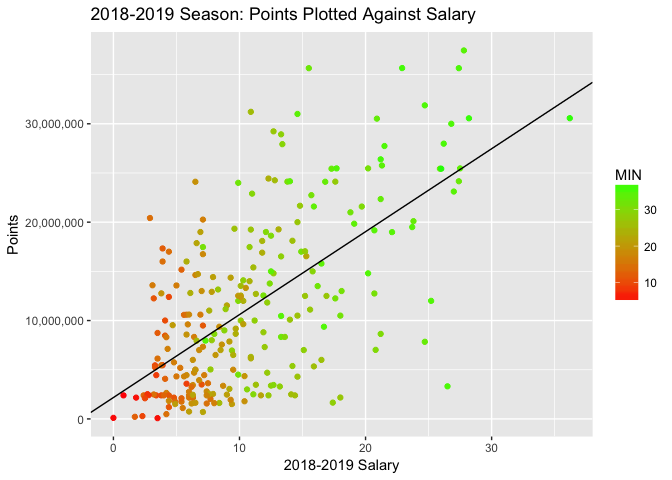
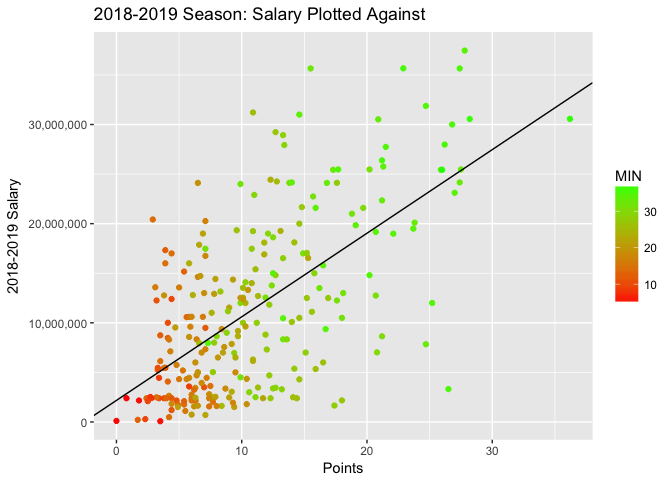
fixed knitting issues

diff --git a/README.md b/README.md
@@ -54,13 +54,15 @@ Cleaning Data
 We will now merge the four dataframes for salary data and remove the individual datasets from our working environment. Note that we only include players that are accounted for in all four datasets to ensure consistency in our analysis.
 
 ``` r
-#merge concactenates two dataframes together by values in a certain row or column.
+# merge concactenates two dataframes together by values in a
+# certain row or column.
 df_salary <- merge(salary1516, salary1617, by.x = "Player", by.y = "Player")
 df_salary <- merge(df_salary, salary1718, by.x = "Player", by.y = "Player")
 df_salary <- merge(df_salary, salary1819, by.x = "Player", by.y = "Player")
 
-#rm removes dataframes and vectors from our local working environment.
-#rm(salary1516, salary1617, salary1718, salary1819)
+# rm removes dataframes and vectors from our local working
+# environment. rm(salary1516, salary1617, salary1718,
+# salary1819)
 ```
 
 There are some issues with our data. If you click on the df\_salary dataframe in the "environment" pane on the right, you will see that the year columns have weird names and that the dollar amounts are treated as factors. Factors are categorical variables best used to describe types of values (animals classified as "dog" "cat" etc.) This is undesirable for use in numerical data, and will impact any plotting or statistical analysis we want to do. Therefore, we will convert the factor vectors into numeric vectors and rename them using the code snippet below.
@@ -75,7 +77,8 @@ df_salary$y1617 = as.numeric(gsub("[\\$,]", "", as.character(df_salary$y1617)))
 df_salary$y1718 = as.numeric(gsub("[\\$,]", "", as.character(df_salary$y1718)))
 df_salary$y1819 = as.numeric(gsub("[\\$,]", "", as.character(df_salary$y1819)))
 
-#Trim unnecessary whitespace to prevent string matching errors
+# Trim unnecessary whitespace to prevent string matching
+# errors
 df_salary$Player = trimws(df_salary$Player)
 ```
 
@@ -114,9 +117,9 @@ require(scales)
 data1819 <- merge(df_salary, players1819, by.x = "Player", by.y = "PLAYER")
 
 p <- ggplot(data = data1819, aes(y = y1819, x = PTS, colour = MIN))
-p + scale_y_continuous(labels = comma) + xlab("2018-2019 Salary") + 
-  ylab("Points") + ggtitle("2018-2019 Season: Points Plotted Against Salary") + 
-  scale_color_gradient(low="red", high="green") + geom_point()
+p + scale_y_continuous(labels = comma) + ylab("2018-2019 Salary") + 
+    xlab("Points") + ggtitle("2018-2019 Season: Salary Plotted Against Points") + 
+    scale_color_gradient(low = "red", high = "green") + geom_point()
 ```
 
 ![](Sports_Analytics_files/figure-markdown_github/unnamed-chunk-6-1.png)
@@ -126,7 +129,7 @@ Interesting. We see that a higher salary is generally correlated with more score
 The visual examination leads us to believe that there is a positive relationship between salary and scored points. Let's run a linear regression model to examine this numerically.
 
 ``` r
-#lm stands for "linear model"
+# lm stands for 'linear model'
 points_salary <- lm(y1819 ~ PTS, data = data1819)
 summary(points_salary)
 ```
@@ -155,9 +158,10 @@ Let's interpret this regression output. The line of best fit is given by data181
 The original plot with our newly found regression line is displayed below.
 
 ``` r
-p + scale_y_continuous(labels = comma) + xlab("2018-2019 Salary") + 
-  ylab("Points") + ggtitle("2018-2019 Season: Points Plotted Against Salary") + 
-  scale_color_gradient(low="red", high="green") + geom_point() + geom_abline(intercept = 2174352, slope = 843156)
+p + scale_y_continuous(labels = comma) + ylab("2018-2019 Salary") + 
+    xlab("Points") + ggtitle("2018-2019 Season: Salary Plotted Against ") + 
+    scale_color_gradient(low = "red", high = "green") + geom_point() + 
+    geom_abline(intercept = 2174352, slope = 843156)
 ```
 
 ![](Sports_Analytics_files/figure-markdown_github/unnamed-chunk-8-1.png)
@@ -178,20 +182,26 @@ require(lpSolve)
     ## Loading required package: lpSolve
 
 ``` r
-# obj represents the objective function. This is the function that calculates the total cost of the team and is what we are trying to minimize.
+# obj represents the objective function. This is the function
+# that calculates the total cost of the team and is what we
+# are trying to minimize.
 obj <- data1819$y1819
-#constr represents the constraint functions. These are the conditions that a valid solution must satisfy. The conditions we impose are that the "team" must have a minimum sum of 100 points per game, the team must have at least 12 players, and each player can only be chosen at most once.
-constr <- matrix(append(append(data1819$PTS, rep(1, times = 256)), as.vector(diag(nrow = 256))), nrow = 258, byrow = TRUE)
-#right represents the right hand side of the constraint functions.
+# constr represents the constraint functions. These are the
+# conditions that a valid solution must satisfy. The
+# conditions we impose are that the 'team' must have a
+# minimum sum of 100 points per game, the team must have at
+# least 12 players, and each player can only be chosen at
+# most once.
+constr <- matrix(append(append(data1819$PTS, rep(1, times = 256)), 
+    as.vector(diag(nrow = 256))), nrow = 258, byrow = TRUE)
+# right represents the right hand side of the constraint
+# functions.
 right <- c(100, 12, rep(1, times = 256))
-#constraints_direction represents the sign of the constraint functions.
-constranints_direction  <- c(">=", ">=", rep("<=", times = 256))
-optimum <-  lp(direction="min",
-               objective.in = obj,
-               const.mat = constr,
-               const.dir = constranints_direction,
-               const.rhs = right,
-               all.int = T)
+# constraints_direction represents the sign of the constraint
+# functions.
+constranints_direction <- c(">=", ">=", rep("<=", times = 256))
+optimum <- lp(direction = "min", objective.in = obj, const.mat = constr, 
+    const.dir = constranints_direction, const.rhs = right, all.int = T)
 
 best_sol <- optimum$solution
 names(best_sol) <- data1819$Player
@@ -374,7 +384,7 @@ print(best_sol)
 The players with a "1" under their name have been chosen for this "optimal" team.
 
 ``` r
-print(paste("Total cost: ", optimum$objval, sep=""))
+print(paste("Total cost: ", optimum$objval, sep = ""))
 ```
 
     ## [1] "Total cost: 12387465"
